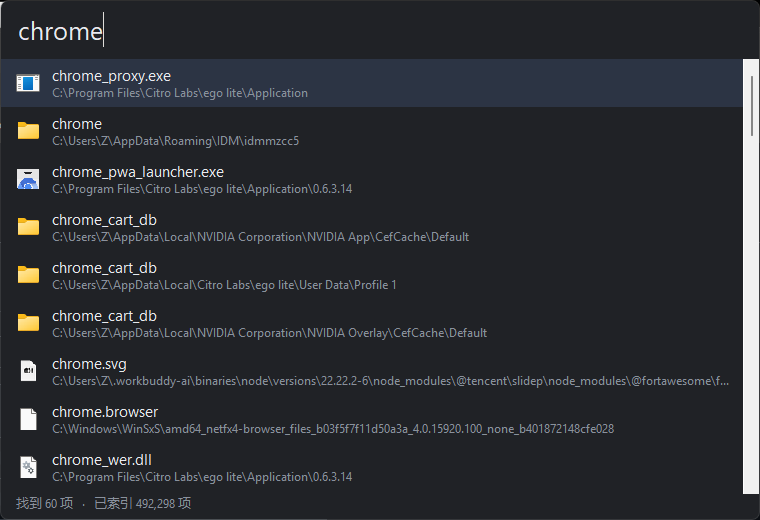
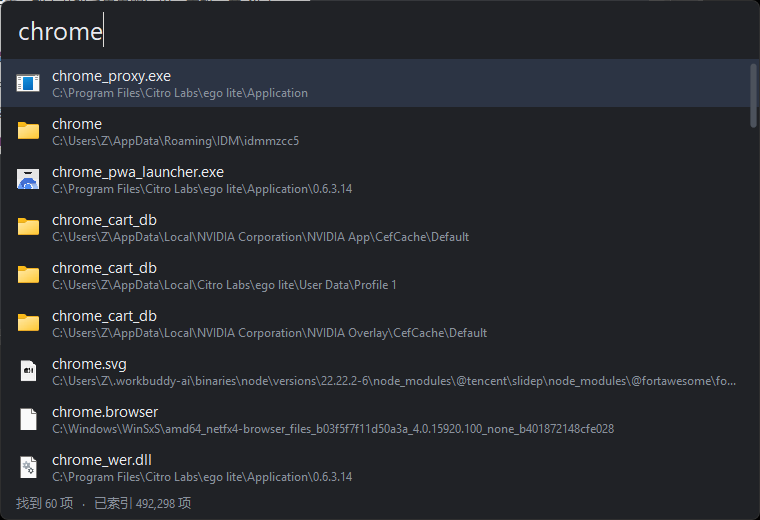
列表改为自绘滚动条，深色模式下不再是白色轨道
uxtheme 的 DarkMode_Explorer + AllowDarkModeForWindow 对经典非客户区滚动条无效，
实测截图里轨道依然是浅灰白色。改成不创建 WS_VSCROLL，由程序在列表右侧画一条
圆角细滑块（复用开关的 GDI+ 抗锯齿），并接管滚轮、拖动、点击翻页。
同时把 README 截图换成新版（旧图右侧能看到那条白边）。

Changed region(s): [[0.9684, 0.0923, 0.9987, 0.9538], [0.0, 0.9846, 0.4237, 1.0]]

diff --git a/src/main.cpp b/src/main.cpp
@@ -96,6 +96,8 @@ struct Theme {
     COLORREF knob;
     COLORREF segBg;
     COLORREF segBorder;
+    COLORREF scrollThumb;
+    COLORREF scrollThumbHot;
 };
 
 static Theme  g_theme;
@@ -150,6 +152,8 @@ static void applyTheme() {
         g_theme.knob            = RGB(236, 239, 244);
         g_theme.segBg           = RGB(44, 48, 56);
         g_theme.segBorder       = RGB(62, 67, 76);
+        g_theme.scrollThumb     = RGB(76, 82, 92);
+        g_theme.scrollThumbHot  = RGB(108, 116, 128);
     } else {
         g_theme.bg              = RGB(252, 252, 253);
         g_theme.border          = RGB(214, 218, 224);
@@ -165,6 +169,8 @@ static void applyTheme() {
         g_theme.knob            = RGB(255, 255, 255);
         g_theme.segBg           = RGB(240, 242, 246);
         g_theme.segBorder       = RGB(220, 224, 231);
+        g_theme.scrollThumb     = RGB(202, 207, 215);
+        g_theme.scrollThumbHot  = RGB(170, 177, 188);
     }
 
     if (g_brBg) { DeleteObject(g_brBg); g_brBg = nullptr; }
@@ -1008,12 +1014,14 @@ static void regSetInt(const wchar_t* name, int val) {
     RegCloseKey(k);
 }
 
+// The list has no WS_VSCROLL: uxtheme keeps the classic scrollbar track light
+// even after DarkMode_Explorer is applied (verified by screenshot), which looks
+// jarring against the dark list. So we paint a slim rounded thumb ourselves on
+// the right edge of the client area, in the same GDI+ style as the toggles.
+
 // Recompute the palette and repaint everything that draws with it.
 static void refreshThemeWindows() {
     applyTheme();
-
-    if (g_hList)
-        SetWindowTheme(g_hList, g_dark ? L"DarkMode_Explorer" : L"", nullptr);
 
     if (g_hwnd) {
         InvalidateRect(g_hwnd, nullptr, TRUE);
@@ -1530,8 +1538,174 @@ static LRESULT CALLBACK EditProc(HWND hwnd, UINT msg, WPARAM wp, LPARAM lp) {
 // Right-click on the results list must reach the app menu too - an owner-drawn
 // LISTBOX swallows it otherwise, so the menu would only work on the text field.
 static WNDPROC g_listProc = nullptr;
+
+// ---- custom scrollbar ------------------------------------------------------
+struct SbGeom {
+    int x, w;      // thumb rect
+    int top, h;
+    int page;      // fully visible rows
+    int maxTop;    // upper bound for LB_SETTOPINDEX
+};
+
+static bool sbGeom(HWND list, SbGeom& g) {
+    int n = (int)SendMessageW(list, LB_GETCOUNT, 0, 0);
+    if (n <= 0) return false;
+
+    RECT rc;
+    GetClientRect(list, &rc);
+    int ch = rc.bottom - rc.top;
+    int ih = (int)SendMessageW(list, LB_GETITEMHEIGHT, 0, 0);
+    if (ch <= 0 || ih <= 0) return false;
+
+    int page = ch / ih;
+    if (page < 1) page = 1;
+    if (n <= page) return false;               // everything fits, no thumb
+
+    int top = (int)SendMessageW(list, LB_GETTOPINDEX, 0, 0);
+    g.maxTop = n - page;
+    if (top > g.maxTop) top = g.maxTop;
+    if (top < 0) top = 0;
+
+    g.page = page;
+    int track = ch - S(8);
+    g.h = track * page / n;
+    if (g.h < S(28)) g.h = S(28);
+    if (g.h > track) g.h = track;
+    g.top = S(4) + (track - g.h) * top / (g.maxTop ? g.maxTop : 1);
+
+    g.w = S(6);
+    g.x = rc.right - S(10);
+    return true;
+}
+
+static void drawScrollbar(HDC dc, HWND list, bool hot) {
+    SbGeom g;
+    if (!sbGeom(list, g)) return;
+    Gdiplus::Graphics gfx(dc);
+    aaBegin(gfx);
+    Gdiplus::SolidBrush b(toGp(hot ? g_theme.scrollThumbHot : g_theme.scrollThumb));
+    Gdiplus::GraphicsPath p;
+    aaPath(p, g.x, g.top, g.w, g.h, g.w / 2);
+    gfx.FillPath(&b, &p);
+}
+
+static bool g_sbDrag     = false;
+static bool g_sbHot      = false;
+static bool g_sbTracking = false;   // TrackMouseEvent armed, so TME_LEAVE arrives
+static int  g_sbGrab     = 0;       // pointer offset inside the thumb
+static int  g_sbDragH    = 0;       // thumb height frozen at drag start
+static int  g_sbDragMx   = 0;       // maxTop frozen at drag start
+
+static void sbDragTo(HWND list, int y) {
+    RECT rc;
+    GetClientRect(list, &rc);
+    int span = (rc.bottom - rc.top) - S(8) - g_sbDragH;
+    if (span <= 0) return;
+    int t = (y - g_sbGrab - S(4)) * g_sbDragMx / span;
+    if (t < 0) t = 0;
+    if (t > g_sbDragMx) t = g_sbDragMx;
+    SendMessageW(list, LB_SETTOPINDEX, t, 0);
+}
+
 static LRESULT CALLBACK ListProc(HWND hwnd, UINT msg, WPARAM wp, LPARAM lp) {
-    if (msg == WM_RBUTTONUP) { showAppMenu(true); return 0; }
+    switch (msg) {
+        case WM_RBUTTONUP:
+            showAppMenu(true);
+            return 0;
+
+        // comctl32 paints the items, so the thumb goes on top afterwards.
+        // Calling GetDC once the default handler has validated the window is
+        // enough - no second WM_PAINT is generated, so nothing flickers.
+        //
+        // The gutter is added to the update region first: scrolling only
+        // invalidates the rows that changed, so a thumb drawn for an earlier
+        // position would otherwise be left behind as a ghost.
+        case WM_PAINT: {
+            RECT cr;
+            GetClientRect(hwnd, &cr);
+            RECT gutter = { cr.right - S(12), cr.top, cr.right, cr.bottom };
+            InvalidateRect(hwnd, &gutter, FALSE);
+
+            LRESULT r = CallWindowProcW(g_listProc, hwnd, msg, wp, lp);
+            HDC dc = GetDC(hwnd);
+            drawScrollbar(dc, hwnd, g_sbDrag || g_sbHot);
+            ReleaseDC(hwnd, dc);
+            return r;
+        }
+
+        case WM_MOUSEMOVE: {
+            if (g_sbDrag) { sbDragTo(hwnd, GET_Y_LPARAM(lp)); return 0; }
+            SbGeom g;
+            bool inGutter = sbGeom(hwnd, g) && GET_X_LPARAM(lp) >= g.x - S(4);
+            if (inGutter != g_sbHot) {
+                g_sbHot = inGutter;
+                InvalidateRect(hwnd, nullptr, FALSE);
+            }
+            if (!g_sbTracking) {
+                TRACKMOUSEEVENT tme = { sizeof(tme), TME_LEAVE, hwnd, 0 };
+                TrackMouseEvent(&tme);
+                g_sbTracking = true;
+            }
+            break;
+        }
+
+        case WM_MOUSELEAVE:
+            g_sbTracking = false;
+            if (g_sbHot) { g_sbHot = false; InvalidateRect(hwnd, nullptr, FALSE); }
+            break;
+
+        case WM_LBUTTONDOWN: {
+            SbGeom g;
+            if (sbGeom(hwnd, g) && GET_X_LPARAM(lp) >= g.x - S(4)) {
+                int y = GET_Y_LPARAM(lp);
+                if (y < g.top || y >= g.top + g.h) {
+                    int top = (int)SendMessageW(hwnd, LB_GETTOPINDEX, 0, 0);
+                    top += (y < g.top) ? -g.page : g.page;
+                    if (top < 0) top = 0;
+                    if (top > g.maxTop) top = g.maxTop;
+                    SendMessageW(hwnd, LB_SETTOPINDEX, top, 0);
+                    return 0;
+                }
+                g_sbDrag   = true;
+                g_sbGrab   = y - g.top;
+                g_sbDragH  = g.h;
+                g_sbDragMx = g.maxTop;
+                SetCapture(hwnd);
+                return 0;
+            }
+            break;
+        }
+
+        case WM_LBUTTONUP:
+            if (g_sbDrag) {
+                g_sbDrag = false;
+                ReleaseCapture();
+                InvalidateRect(hwnd, nullptr, FALSE);
+                return 0;
+            }
+            break;
+
+        // The window hides on blur, so a drag can be cut short by the capture
+        // going away without a matching WM_LBUTTONUP.
+        case WM_CAPTURECHANGED:
+            if (g_sbDrag) {
+                g_sbDrag = false;
+                InvalidateRect(hwnd, nullptr, FALSE);
+            }
+            break;
+
+        // Without WS_VSCROLL there is no native wheel handling left.
+        case WM_MOUSEWHEEL: {
+            SbGeom g;
+            if (!sbGeom(hwnd, g)) return 0;
+            int top = (int)SendMessageW(hwnd, LB_GETTOPINDEX, 0, 0);
+            top += (GET_WHEEL_DELTA_WPARAM(wp) > 0) ? -3 : 3;
+            if (top < 0) top = 0;
+            if (top > g.maxTop) top = g.maxTop;
+            SendMessageW(hwnd, LB_SETTOPINDEX, top, 0);
+            return 0;
+        }
+    }
     return CallWindowProcW(g_listProc, hwnd, msg, wp, lp);
 }
 
@@ -1559,7 +1733,7 @@ static LRESULT CALLBACK WndProc(HWND hwnd, UINT msg, WPARAM wp, LPARAM lp) {
                                       0, 0, 10, 10, hwnd, (HMENU)ID_EDIT, g_hInst, nullptr);
             g_hList = CreateWindowExW(0, L"LISTBOX", L"",
                                       WS_CHILD | WS_VISIBLE | LBS_OWNERDRAWFIXED | LBS_NOTIFY |
-                                      LBS_NOINTEGRALHEIGHT | WS_VSCROLL,
+                                      LBS_NOINTEGRALHEIGHT,
                                       0, 0, 10, 10, hwnd, (HMENU)ID_LIST, g_hInst, nullptr);
 
             SendMessageW(g_hEdit, WM_SETFONT, (WPARAM)g_fEdit, TRUE);
@@ -1673,7 +1847,7 @@ static LRESULT CALLBACK WndProc(HWND hwnd, UINT msg, WPARAM wp, LPARAM lp) {
                 name.resize(name.size() - 4);
 
             int tx = d->rcItem.left + S(16) + isz + S(12);
-            int tw = d->rcItem.right - tx - S(12);
+            int tw = d->rcItem.right - tx - S(22);   // keep clear of the thumb
 
             RECT rn = { tx, d->rcItem.top + S(6), tx + tw, d->rcItem.top + S(6) + S(20) };
             SetTextColor(d->hDC, g_theme.text);

diff --git a/tools/shot.py b/tools/shot.py
@@ -1,0 +1,65 @@
+"""Grab a screen region into a 32bpp BMP (no PIL needed).
+
+usage: python shot.py out.bmp [x y w h]
+"""
+import sys, ctypes
+from ctypes import wintypes
+
+user32, gdi32 = ctypes.windll.user32, ctypes.windll.gdi32
+SRCCOPY = 0x00CC0020
+DIB_RGB_COLORS = 0
+
+
+class BITMAPINFOHEADER(ctypes.Structure):
+    _fields_ = [('biSize', wintypes.DWORD), ('biWidth', wintypes.LONG),
+                ('biHeight', wintypes.LONG), ('biPlanes', wintypes.WORD),
+                ('biBitCount', wintypes.WORD), ('biCompression', wintypes.DWORD),
+                ('biSizeImage', wintypes.DWORD), ('biXPelsPerMeter', wintypes.LONG),
+                ('biYPelsPerMeter', wintypes.LONG), ('biClrUsed', wintypes.DWORD),
+                ('biClrImportant', wintypes.DWORD)]
+
+
+class BITMAPINFO(ctypes.Structure):
+    _fields_ = [('bmiHeader', BITMAPINFOHEADER), ('bmiColors', wintypes.DWORD * 3)]
+
+
+def grab(x, y, w, h):
+    hdc_screen = user32.GetDC(0)
+    hdc_mem = gdi32.CreateCompatibleDC(hdc_screen)
+    hbmp = gdi32.CreateCompatibleBitmap(hdc_screen, w, h)
+    gdi32.SelectObject(hdc_mem, hbmp)
+    gdi32.BitBlt(hdc_mem, 0, 0, w, h, hdc_screen, x, y, SRCCOPY)
+
+    bi = BITMAPINFO()
+    bi.bmiHeader.biSize = ctypes.sizeof(BITMAPINFOHEADER)
+    bi.bmiHeader.biWidth = w
+    bi.bmiHeader.biHeight = -h          # top-down
+    bi.bmiHeader.biPlanes = 1
+    bi.bmiHeader.biBitCount = 32
+    buf = ctypes.create_string_buffer(w * h * 4)
+    gdi32.GetDIBits(hdc_mem, hbmp, 0, h, buf, ctypes.byref(bi), DIB_RGB_COLORS)
+
+    gdi32.DeleteObject(hbmp)
+    gdi32.DeleteDC(hdc_mem)
+    user32.ReleaseDC(0, hdc_screen)
+    return w, h, buf.raw
+
+
+def write_bmp(path, w, h, rgba):
+    import struct
+    stride = w * 4
+    hdr = b'BM' + struct.pack('<IHHI', 14 + 40 + stride * h, 0, 0, 14 + 40)
+    ih = struct.pack('<IiiHHIIiiII', 40, w, -h, 1, 32, 0, stride * h, 2835, 2835, 0, 0)
+    # GetDIBits already hands back BGRA, which is exactly the BMP byte order.
+    out = bytearray(rgba)
+    out[3::4] = b'\xff' * (w * h)
+    open(path, 'wb').write(hdr + ih + bytes(out))
+
+
+if __name__ == '__main__':
+    x, y, w, h = (0, 0) + tuple(user32.GetSystemMetrics(i) for i in (0, 1))
+    if len(sys.argv) >= 6:
+        x, y, w, h = (int(v) for v in sys.argv[2:6])
+    W, H, px = grab(x, y, w, h)
+    write_bmp(sys.argv[1], W, H, px)
+    print('wrote %s  %dx%d at %d,%d' % (sys.argv[1], W, H, x, y))

diff --git a/tools/keys.cpp b/tools/keys.cpp
@@ -27,6 +27,45 @@ int wmain(int argc, wchar_t** argv) {
         return 0;
     }
 
+    if (argc >= 3 && wcscmp(argv[1], L"--wheel") == 0) {
+        int notches = (argc >= 4) ? _wtoi(argv[3]) : 3;
+        int dir = wcscmp(argv[2], L"up") == 0 ? 1 : -1;
+        Sleep(200);
+        for (int i = 0; i < notches; ++i) {
+            INPUT in = {};
+            in.type = INPUT_MOUSE;
+            in.mi.dwFlags = MOUSEEVENTF_WHEEL;
+            in.mi.mouseData = (DWORD)(dir * WHEEL_DELTA);
+            SendInput(1, &in, sizeof(INPUT));
+            Sleep(30);
+        }
+        wprintf(L"wheel %ls x%d\n", dir > 0 ? L"up" : L"down", notches);
+        return 0;
+    }
+
+    if (argc >= 6 && wcscmp(argv[1], L"--drag") == 0) {
+        int x1 = _wtoi(argv[2]), y1 = _wtoi(argv[3]);
+        int x2 = _wtoi(argv[4]), y2 = _wtoi(argv[5]);
+        Sleep(250);
+        SetCursorPos(x1, y1);
+        Sleep(120);
+        INPUT dn = {};
+        dn.type = INPUT_MOUSE;
+        dn.mi.dwFlags = MOUSEEVENTF_LEFTDOWN;
+        SendInput(1, &dn, sizeof(INPUT));
+        for (int i = 1; i <= 12; ++i) {
+            Sleep(25);
+            SetCursorPos(x1 + (x2 - x1) * i / 12, y1 + (y2 - y1) * i / 12);
+        }
+        Sleep(120);
+        INPUT up = {};
+        up.type = INPUT_MOUSE;
+        up.mi.dwFlags = MOUSEEVENTF_LEFTUP;
+        SendInput(1, &up, sizeof(INPUT));
+        wprintf(L"dragged %d,%d -> %d,%d\n", x1, y1, x2, y2);
+        return 0;
+    }
+
     if (argc >= 2 && wcscmp(argv[1], L"--clear") == 0) {
         Sleep(300);
         INPUT in[4] = {};
